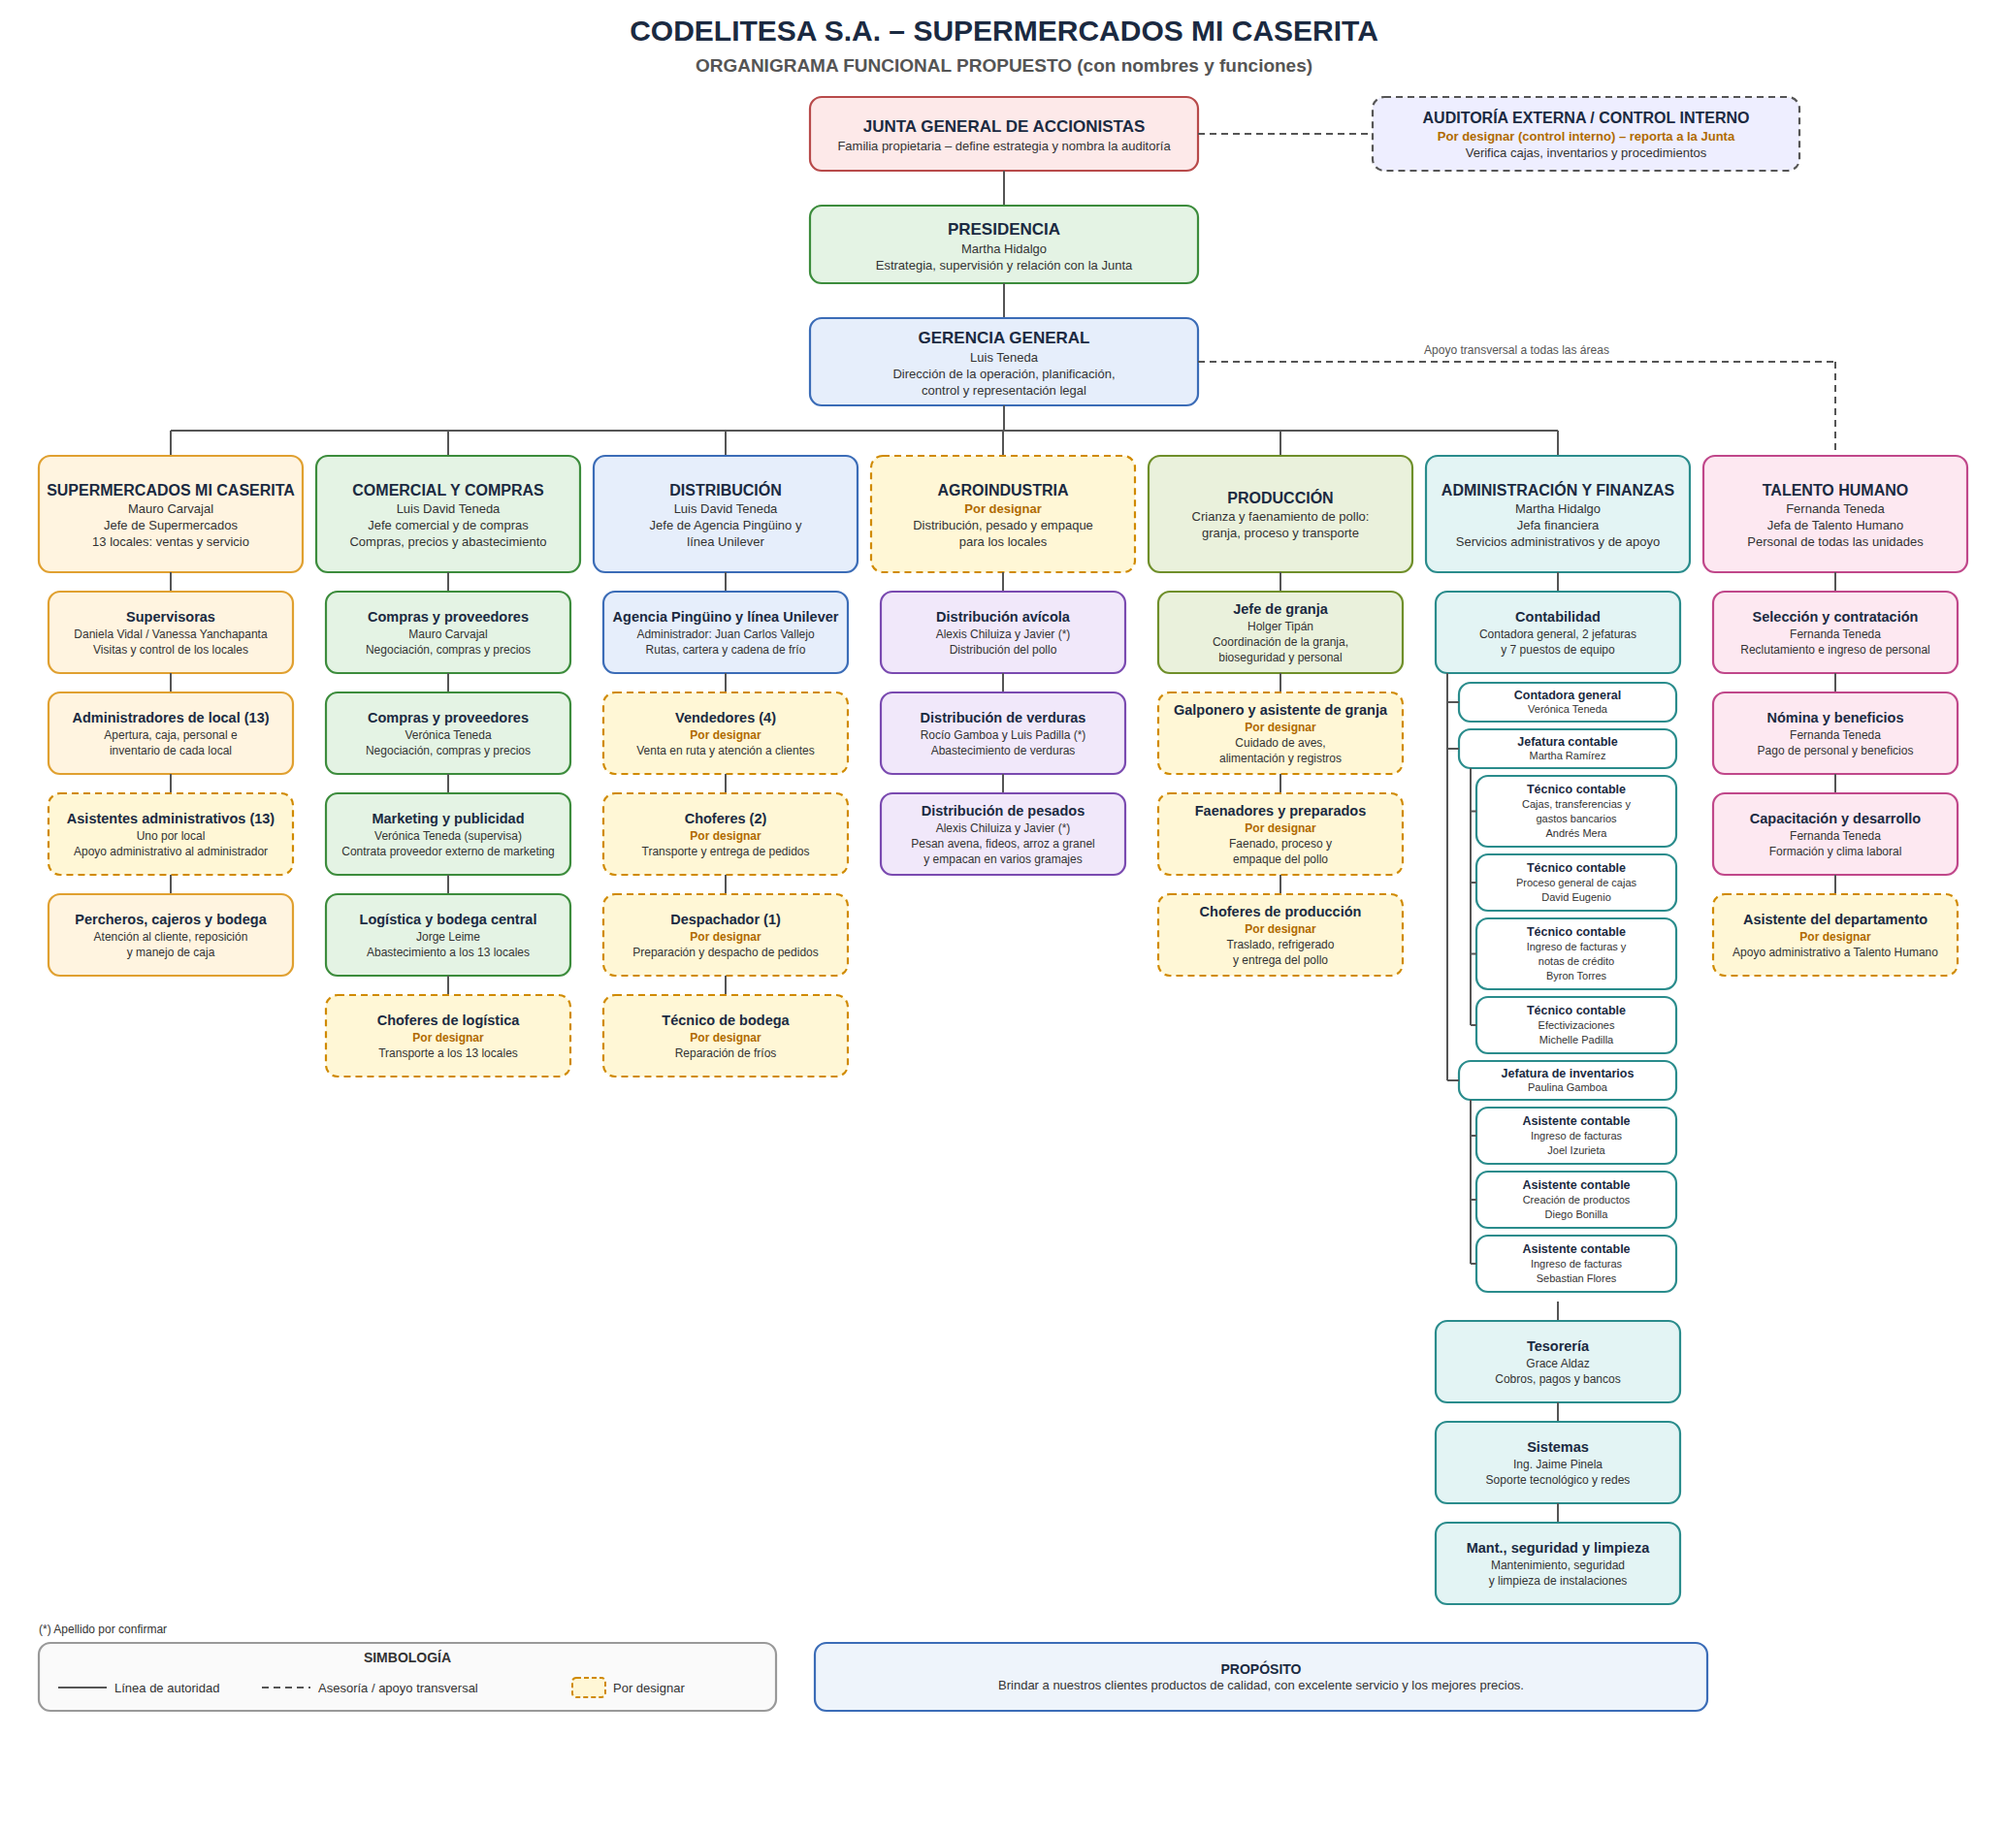
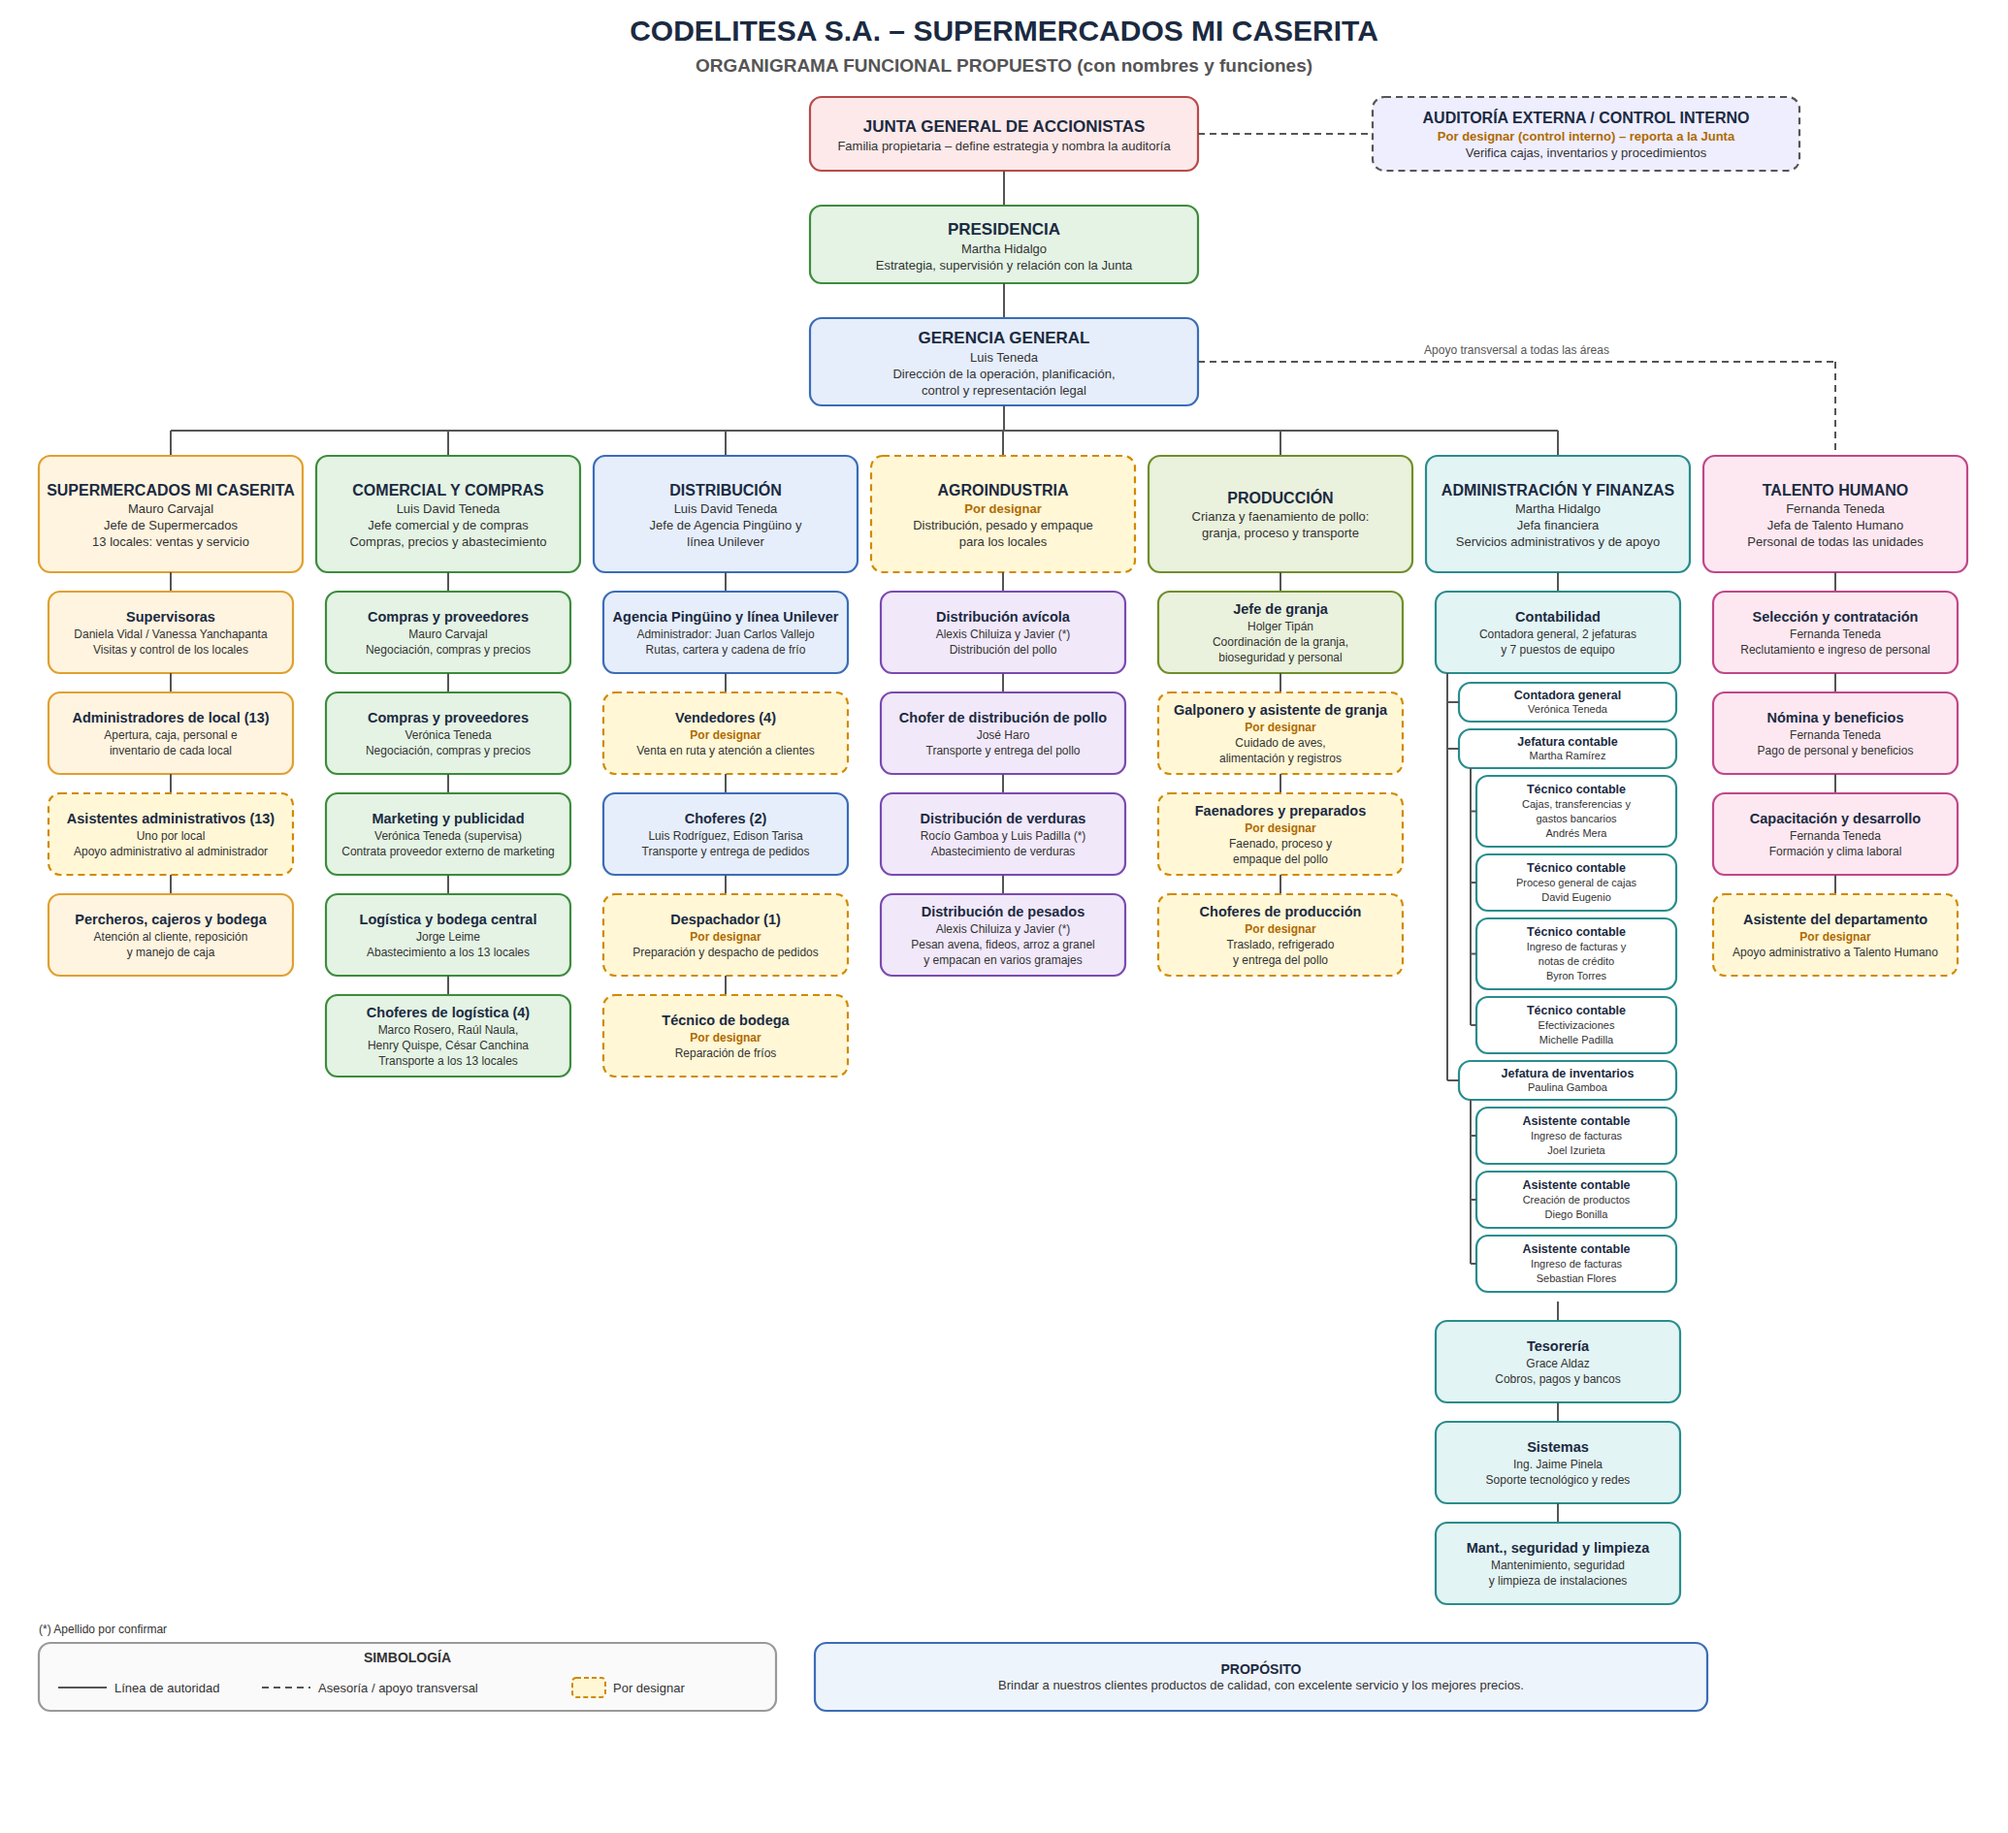
Nombrar choferes de logística, Pingüino y distribución de pollo
Claude-Session: https://claude.ai/code/session_012Bb6M7hyJwwVBojnoHpByV

Changed region(s): [[0.4638, 0.3746, 0.5565, 0.5307], [0.2783, 0.4058, 0.4329, 0.4995], [0.1546, 0.5307, 0.3092, 0.5931]]

diff --git a/organigrama/gen.py b/organigrama/gen.py
@@ -61,15 +61,16 @@ def build(func):
         ("Compras y proveedores",["Verónica Teneda","Negociación, compras y precios"],0),
         ("Marketing y publicidad",["Verónica Teneda (supervisa)","Contrata proveedor externo de marketing"],0),
         ("Logística y bodega central",["Jorge Leime","Abastecimiento a los 13 locales"],0),
-        ("Choferes de logística",["Por designar","Transporte a los 13 locales"],1)]),
+        ("Choferes de logística (4)",["Marco Rosero, Raúl Naula,","Henry Quispe, César Canchina","Transporte a los 13 locales"],0)]),
      ("DISTRIBUCIÓN",["Luis David Teneda","Jefe de Agencia Pingüino y","línea Unilever"],"",[
         ("Agencia Pingüino y línea Unilever",["Administrador: Juan Carlos Vallejo","Rutas, cartera y cadena de frío"],0),
         ("Vendedores (4)",["Por designar","Venta en ruta y atención a clientes"],1),
-        ("Choferes (2)",["Por designar","Transporte y entrega de pedidos"],1),
+        ("Choferes (2)",["Luis Rodríguez, Edison Tarisa","Transporte y entrega de pedidos"],0),
         ("Despachador (1)",["Por designar","Preparación y despacho de pedidos"],1),
         ("Técnico de bodega",["Por designar","Reparación de fríos"],1)]),
      ("AGROINDUSTRIA",["Por designar","Distribución, pesado y empaque","para los locales"],"",[
         ("Distribución avícola",["Alexis Chiluiza y Javier (*)","Distribución del pollo"],0),
+        ("Chofer de distribución de pollo",["José Haro","Transporte y entrega del pollo"],0),
         ("Distribución de verduras",["Rocío Gamboa y Luis Padilla (*)","Abastecimiento de verduras"],0),
         ("Distribución de pesados",["Alexis Chiluiza y Javier (*)","Pesan avena, fideos, arroz a granel","y empacan en varios gramajes"],0)]),
      ("PRODUCCIÓN",["Crianza y faenamiento de pollo:","granja, proceso y transporte"],"",[
